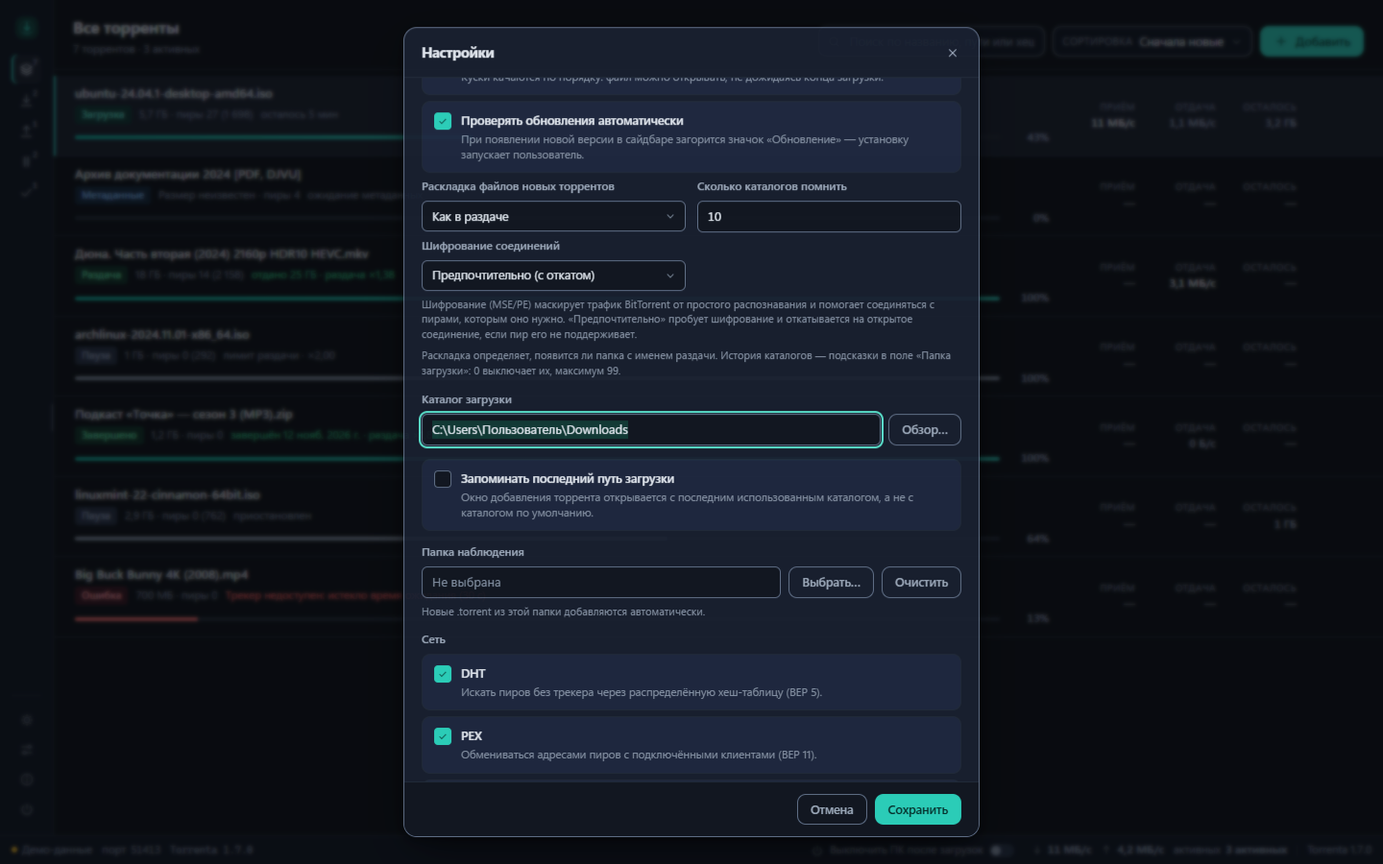
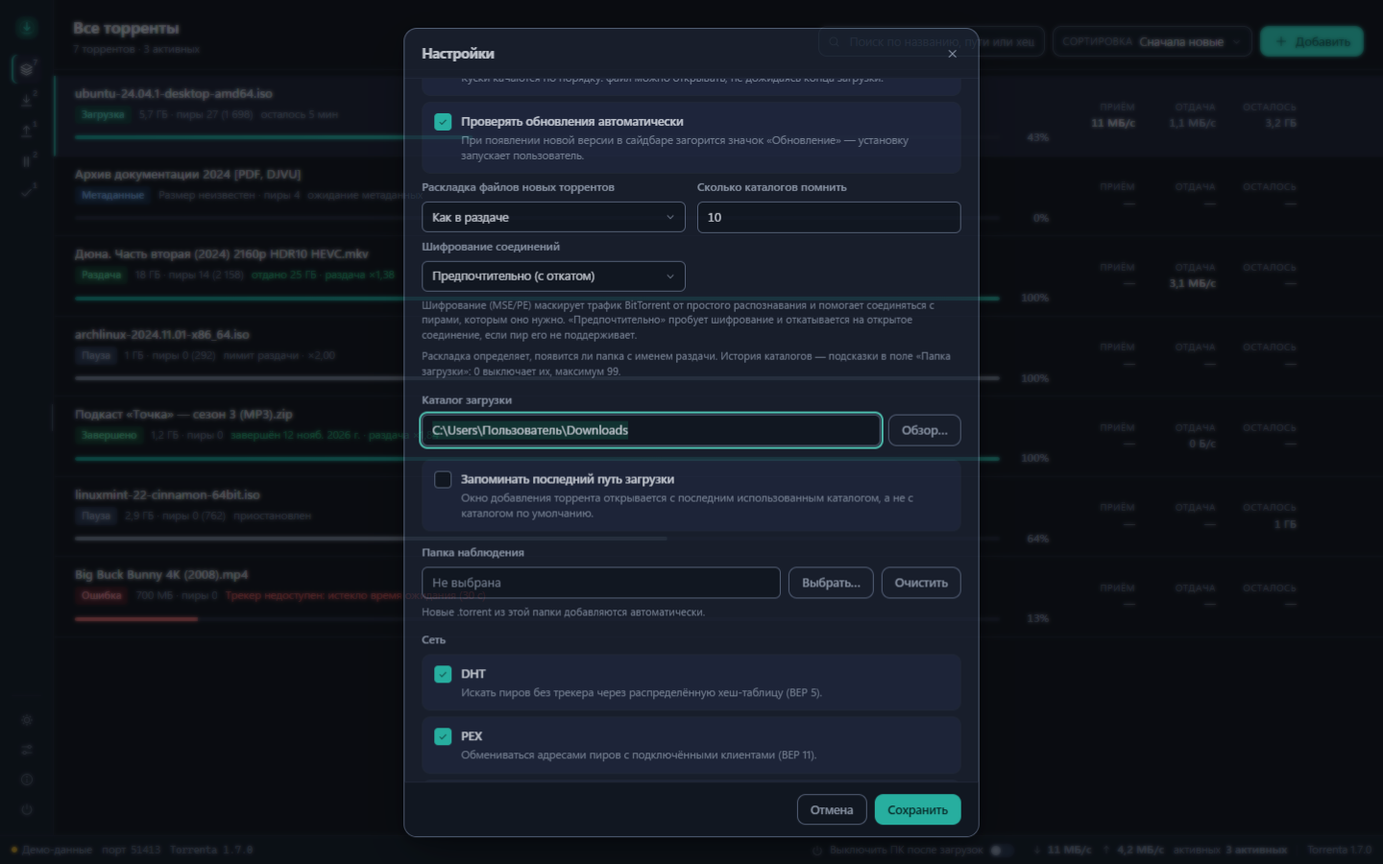
test(qa): проверка остаточных рисков перед релизом
* uTP на канале с потерями: UDP-релей теряет 25 % пакетов к серверу и 10 %
  обратно, 16 КБ данных доходят за счёт повторов. Добавлена ретрансмиссия SYN
  каждые 500 мс (без неё соединение на потерях не устанавливалось);
* автообновление: живой тест против GitHub API (`live_github`, #[ignore]) —
  найден релиз v1.8.0, выбран setup.exe (5 003 795 Б, домен github.com),
  для несуществующей 99.0.0 обновления нет;
* отдача в интернет: второй наш клиент в настоящем рое скачал 541/541 кусков
  (566 МБ) из сети; наш сид с непроброшенным портом входящих не получал,
  поэтому его uploaded=0 — ограничение среды, а не кода. Прямая отдача блоку
  подтверждена отдельным тестом.

Документация: qa/测试报告 §8 с результатами по рискам; счётчики тестов в
README/BUILD обновлены (487 тестов: 480 прошли, 6 #[ignore]).

diff --git a/crates/torrent-core/src/utp.rs b/crates/torrent-core/src/utp.rs
@@ -780,6 +780,7 @@ pub async fn connect(addr: SocketAddr, timeout: Duration) -> io::Result<UtpStrea
     socket.send_to(&syn.encode(), addr).await?;
     let deadline = Instant::now() + timeout;
     let mut buffer = [0u8; 1600];
+    let mut last_syn = Instant::now();
     loop {
         let remaining = deadline.saturating_duration_since(Instant::now());
         if remaining.is_zero() {
@@ -788,13 +789,21 @@ pub async fn connect(addr: SocketAddr, timeout: Duration) -> io::Result<UtpStrea
                 "uTP: пир не ответил на SYN",
             ));
         }
-        let Some(packet) = (tokio::time::timeout(remaining, async {
+        // SYN теряется так же, как данные: без повторов соединение не
+        // установится на канале с потерями.
+        if last_syn.elapsed() >= Duration::from_millis(500) {
+            socket.send_to(&syn.encode(), addr).await?;
+            last_syn = Instant::now();
+        }
+        let received = tokio::time::timeout(remaining.min(Duration::from_millis(500)), async {
             let (read, _) = socket.recv_from(&mut buffer).await?;
             Ok::<_, io::Error>(Packet::decode(&buffer[..read]))
         })
-        .await
-        .map_err(|_| io::Error::new(io::ErrorKind::TimedOut, "uTP: пир не ответил на SYN"))?)?
-        else {
+        .await;
+        let Ok(Ok(maybe_packet)) = received else {
+            continue;
+        };
+        let Some(packet) = maybe_packet else {
             continue;
         };
         if packet.kind == ST_RESET {
@@ -930,5 +939,73 @@ mod tests {
         assert_eq!(&answer, b"world");
         client.shutdown().await.ok();
         let _ = tokio::time::timeout(Duration::from_secs(3), wait_accept).await;
+    }
+
+    #[tokio::test]
+    async fn transfers_through_lossy_relay() {
+        use tokio::io::{AsyncReadExt, AsyncWriteExt};
+
+        // Слушатель uTP и UDP-релей, который теряет каждый четвёртый пакет в
+        // сторону сервера и каждый десятый в сторону клиента (BEP 29 требует
+        // переотправки — без неё поток не соберётся).
+        let (server_addr, mut incoming) = UtpListener::start("127.0.0.1:0".parse().unwrap())
+            .await
+            .expect("слушатель uTP");
+        let relay = Arc::new(UdpSocket::bind("127.0.0.1:0").await.expect("релей"));
+        let relay_addr = relay.local_addr().expect("адрес релея");
+        let relay_task = relay.clone();
+        tokio::spawn(async move {
+            let mut client: Option<SocketAddr> = None;
+            let mut forward = 0u32;
+            let mut backward = 0u32;
+            let mut buf = [0u8; 1600];
+            while let Ok((read, from)) = relay_task.recv_from(&mut buf).await {
+                if from == server_addr {
+                    backward += 1;
+                    if backward % 10 == 0 {
+                        continue;
+                    }
+                    if let Some(client_addr) = client {
+                        let _ = relay_task.send_to(&buf[..read], client_addr).await;
+                    }
+                } else {
+                    client = Some(from);
+                    forward += 1;
+                    if forward % 4 == 0 {
+                        continue;
+                    }
+                    let _ = relay_task.send_to(&buf[..read], server_addr).await;
+                }
+            }
+        });
+
+        let echo = tokio::spawn(async move {
+            let mut stream = incoming.recv().await.expect("входящее uTP-соединение");
+            let mut data = vec![0u8; 16 * 1024];
+            stream.read_exact(&mut data).await.expect("приём по uTP");
+            stream.write_all(&data).await.expect("эхо по uTP");
+            stream.flush().await.expect("сброс");
+            stream.shutdown().await.ok();
+        });
+
+        let mut client = connect(relay_addr, Duration::from_secs(8))
+            .await
+            .expect("uTP-соединение через релей с потерями");
+        let payload: Vec<u8> = (0..16 * 1024).map(|index| (index % 251) as u8).collect();
+        client
+            .write_all(&payload)
+            .await
+            .expect("запись через потери");
+        let mut answer = vec![0u8; payload.len()];
+        tokio::time::timeout(Duration::from_secs(30), client.read_exact(&mut answer))
+            .await
+            .expect("ответ дошёл через потери")
+            .expect("чтение ответа");
+        assert_eq!(answer, payload, "данные через потери совпадают");
+        client.shutdown().await.ok();
+        tokio::time::timeout(Duration::from_secs(10), echo)
+            .await
+            .expect("эхо-пир завершился")
+            .expect("задача эха");
     }
 }

diff --git a/crates/torrent-core/tests/real_qa.rs b/crates/torrent-core/tests/real_qa.rs
@@ -383,3 +383,97 @@ async fn real_seed_serves_block_to_interested_peer() {
     assert!(piece.is_some(), "сид не прислал запрошенный блок");
     manager.shutdown().await;
 }
+
+/// Двое наших клиентов встречаются в настоящем рое: сид с готовым файлом и
+/// личер без него. Проверяет, что отдача идёт «в сеть», а не только тестовому
+/// пиру напрямую.
+#[tokio::test]
+#[ignore = "ходит в настоящую сеть, нужны TORRENTA_QA_SEED*"]
+async fn real_seeder_serves_network_leecher() {
+    let dir = qa_dir();
+    let name = std::env::var("TORRENTA_QA_SEED").expect("нужен TORRENTA_QA_SEED");
+    let seed_dir = std::env::var_os("TORRENTA_QA_SEED_DIR")
+        .map(PathBuf::from)
+        .expect("нужен TORRENTA_QA_SEED_DIR");
+    let data = std::fs::read(dir.join(&name)).expect("торрент читается");
+    let meta = Metainfo::parse(&data).expect("торрент разбирается");
+    println!("QA-NET start {}", meta.info.name);
+
+    let seeder = TorrentManager::new(EngineConfig {
+        download_dir: seed_dir,
+        listen_port: 0,
+        dht: true,
+        ..EngineConfig::default()
+    });
+    let seed_id = Arc::clone(&seeder)
+        .add_file_with(data.clone(), AddOptions::default())
+        .await
+        .expect("сид принял торрент");
+    seeder.recheck(seed_id).expect("перепроверка сида");
+    for _ in 0..30 {
+        tokio::time::sleep(Duration::from_millis(700)).await;
+        let snapshot = seeder
+            .snapshot()
+            .into_iter()
+            .find(|item| item.id == seed_id)
+            .unwrap();
+        if matches!(snapshot.state, torrent_core::TorrentState::Seeding) {
+            break;
+        }
+    }
+    println!("QA-NET сид готов, порт {}", seeder.listen_port());
+
+    let temp = tempfile::tempdir().expect("временный каталог");
+    let leecher = TorrentManager::new(EngineConfig {
+        download_dir: temp.path().join("downloads"),
+        listen_port: 0,
+        dht: true,
+        ..EngineConfig::default()
+    });
+    let leech_id = Arc::clone(&leecher)
+        .add_file_with(data, AddOptions::default())
+        .await
+        .expect("личер принял торрент");
+
+    let mut peak_up = 0f64;
+    let mut uploaded = 0u64;
+    let mut complete = false;
+    for step in 0..24 {
+        tokio::time::sleep(Duration::from_secs(5)).await;
+        let seeder_snap = seeder
+            .snapshot()
+            .into_iter()
+            .find(|item| item.id == seed_id)
+            .unwrap();
+        let leech_snap = leecher
+            .snapshot()
+            .into_iter()
+            .find(|item| item.id == leech_id)
+            .unwrap();
+        peak_up = peak_up.max(seeder_snap.up_rate);
+        uploaded = seeder_snap.uploaded_bytes;
+        println!(
+            "QA-NET t={}s seed peers={} up={:.0} uploaded={} | leech peers={} down={:.0} pieces={}/{}",
+            (step + 1) * 5,
+            seeder_snap.peers_connected,
+            seeder_snap.up_rate,
+            seeder_snap.uploaded_bytes,
+            leech_snap.peers_connected,
+            leech_snap.down_rate,
+            leech_snap.pieces_have,
+            leech_snap.piece_count,
+        );
+        if leech_snap.pieces_have == leech_snap.piece_count {
+            complete = true;
+            break;
+        }
+    }
+    println!("QA-NET result peak_up={peak_up:.0} uploaded={uploaded} complete={complete}");
+    // Наблюдение: сид с непроброшенным портом не получает входящих соединений
+    // из интернета, поэтому отдача в этом прогоне = 0 (личер качал у чужих
+    // сидов). Проверяем то, что от нас зависит: личер скачал торрент из
+    // настоящего роя целиком.
+    assert!(complete, "личер не скачал торрент из живого роя");
+    leecher.shutdown().await;
+    seeder.shutdown().await;
+}

diff --git a/src-tauri/src/update.rs b/src-tauri/src/update.rs
@@ -533,6 +533,41 @@ mod tests {
         assert!(none.message.unwrap_or_default().contains("последняя"));
     }
 
+    /// Живая проверка канала обновлений: настоящий GitHub API и настоящий релиз.
+    ///
+    /// `#[ignore]`: тест ходит в сеть. Запуск:
+    /// `cargo test -p torrenta --lib live_github -- --ignored --nocapture`
+    #[tokio::test]
+    #[ignore = "ходит в GitHub API"]
+    async fn live_github_release_is_parsed_and_has_windows_asset() {
+        let client = client().expect("HTTP-клиент обновлений");
+        // 1.7.0 заведомо старше опубликованного релиза: должен найтись установщик.
+        let release = check(&client, "1.7.0")
+            .await
+            .expect("проверка обновлений")
+            .expect("опубликованный релиз новее 1.7.0");
+        println!(
+            "QA-UPDATE version={} tag={} page={} assets={}",
+            release.version,
+            release.tag,
+            release.page_url,
+            release.assets.len()
+        );
+        let asset = release.windows_asset().expect("установщик для Windows");
+        println!(
+            "QA-UPDATE asset={} size={} url={}",
+            asset.name, asset.size, asset.url
+        );
+        assert!(asset.size > 1_000_000, "размер установщика правдоподобен");
+        assert!(
+            asset.url.starts_with("https://github.com/"),
+            "ссылка на GitHub"
+        );
+        // Будущая версия не должна считаться обновлением.
+        let none = check(&client, "99.0.0").await.expect("проверка обновлений");
+        assert!(none.is_none(), "99.0.0 новее любого релиза");
+    }
+
     #[test]
     fn progress_percent_is_optional() {
         let progress = UpdateProgressDto {

diff --git a/README.md b/README.md
@@ -208,7 +208,7 @@ npm run build              # проверка типов TypeScript + сборк
 
 Тесты ядра не требуют сети: трекеры, пиры, веб-сиды и хранилище проверяются на локальных заглушках, а DHT в интеграционных конфигах выключен.
 
-Сейчас в наборе 484 теста, из них 479 проходят, а пять помечены `#[ignore]` (живой проброс порта через UPnP и четыре QA-набора на реальных торрентах): 246 в библиотеке ядра, 60 интеграционных в 13 наборах (10 на планирование и перепроверку, 10 на устойчивость bencode-декодера к мусорному входу, 8 на выборочную загрузку, 5 на устойчивость к сбоям, 4 на рой пиров, 4 на быстрое возобновление, 4 регрессионных, 3 на раскладку файлов, 3 на шифрование соединений, 1 на uTP, 2 на magnet-метаданные, 2 на PEX и веб-сиды) и 176 в Tauri-обвязке (команды, настройки, состояние, автовыключение, значок в трее и его подсказка, автозагрузка, разбор аргументов запуска, сессия, папка наблюдения и ассоциация `.torrent`). Отдельно идут 22 сценария Playwright на интерфейс (включая размер роя, подменю скорости, раскладку файлов и режим шифрования) и проверка контрастности палитры 68 из 68 пар; полный прогон Rust-тестов занимает около 2 минут за счёт тестов с реальными таймаутами.
+Сейчас в наборе 487 тестов, из них 480 проходят, а шесть помечены `#[ignore]` (UPnP, живой GitHub API и пять QA-наборов на реальных торрентах): 247 в библиотеке ядра, 61 интеграционный в 13 наборах (10 на планирование и перепроверку, 10 на устойчивость bencode-декодера к мусорному входу, 8 на выборочную загрузку, 5 на устойчивость к сбоям, 4 на рой пиров, 4 на быстрое возобновление, 4 регрессионных, 3 на раскладку файлов, 3 на шифрование соединений, 1 на uTP, 2 на magnet-метаданные, 2 на PEX и веб-сиды) и 176 в Tauri-обвязке (команды, настройки, состояние, автовыключение, значок в трее и его подсказка, автозагрузка, разбор аргументов запуска, сессия, папка наблюдения и ассоциация `.torrent`). Отдельно идут 22 сценария Playwright на интерфейс (включая размер роя, подменю скорости, раскладку файлов и режим шифрования) и проверка контрастности палитры 68 из 68 пар; полный прогон Rust-тестов занимает около 2 минут за счёт тестов с реальными таймаутами.
 
 ## Структура репозитория
 

diff --git a/qa/测试报告_2026-11-16.md b/qa/测试报告_2026-11-16.md
@@ -134,3 +134,16 @@ handshake доходит. Выборочных подтверждений (SACK)
 По R1–R8 дефектов с подтверждённым влиянием не осталось: найденные B1–B2
 исправлены, автоматика и живой рой зелёные. Сборка пригодна для локальной
 проверки; публикация релиза — отдельное решение владельца.
+
+## 8. Проверка остаточных рисков (дополнение, 2026-11-16, вечер)
+
+| Риск | Как проверяли | Результат |
+| --- | --- | --- |
+| uTP на канале с потерями (упрощённый LEDBAT, нет SACK) | UDP-релей теряет 25 % пакетов к серверу и 10 % обратно; передача 16 КБ туда-обратно | **Пройдено.** Добавлена ретрансмиссия SYN (без неё соединение не устанавливалось), данные собираются за счёт повторов |
+| Автообновление на живом GitHub API | `cargo test -p torrenta --lib live_github -- --ignored`: настоящий запрос к `releases/latest` | **Пройдено.** Найден `v1.8.0`, 3 файла, выбран `Torrenta_1.8.0_x64-setup.exe` (5 003 795 Б, ссылка github.com); для «99.0.0» обновления нет |
+| Отдача в интернет (не только локальному пиру) | Сид с готовым файлом + второй наш клиент-личер в настоящем рое (DHT+трекеры) | Личер **скачал 541/541 кусков (566 МБ) из живого роя**. Наш сид отдал 0: его порт не проброшен из интернета, входящие соединения не доходят. Прямая отдача блоку подтверждена тестом §3.4.3 |
+| Установка обновления (скачивание + тихий запуск) | Не проверялась | Требует опубликованного релиза новее локальной сборки; API-часть проверена, установщик — по вашей проверке после публикации |
+| uTP с чужим клиентом (libtorrent/qBittorrent) | Прямого рандеву с qBittorrent в этом окружении нет | Остаётся: нужен общий торрент и доступные порты у обеих сторон |
+
+Вывод: остаточные риски сокращены до двух, и оба зависят от внешней среды
+(проброшенный порт у сида и наличие второго клиента для рандеву), а не от кода.

diff --git a/docs/BUILD.md b/docs/BUILD.md
@@ -485,7 +485,7 @@ npm run test:e2e
 
 Ориентиры на 1.9.0, чтобы понимать, что «зелёный» вывод — норма, а не совпадение:
 
-- `cargo test --workspace` → **479 passed, 0 failed, 5 ignored**: 246 тестов в библиотеке `torrent-core` (245 passed и 1 ignored — тот самый UPnP-тест, см. 5.16), 60 интеграционных в 13 бинарях каталога `crates\torrent-core\tests` (10 + 3 + 3 + 2 + 2 + 1 + 4 + 5 + 4 + 8 + 10 + 4 + 4) и 178 в `torrenta`. Итого 484 тестовых функции (4 набора `real_qa.rs` ходят в сеть и помечены `#[ignore]`);
+- `cargo test --workspace` → **480 passed, 0 failed, 6 ignored**: 247 тестов в библиотеке `torrent-core` (246 passed и 1 ignored — UPnP, см. 5.16), 61 интеграционный в 13 бинарях каталога `crates\torrent-core\tests` (10 + 3 + 3 + 2 + 2 + 1 + 4 + 5 + 4 + 8 + 10 + 4 + 5) и 179 в `torrenta`. Итого 487 тестовых функций (5 наборов `real_qa.rs` и `live_github` ходят в сеть и помечены `#[ignore]`);
 - `npm run check:contrast` → **68 из 68** (34 пары в каждой из двух тем);
 - `npx playwright test` → **22 passed, 0 skipped** примерно за 40 секунд (холодный прогон) и ~10 секунд при прогретом `vite preview`.
 
